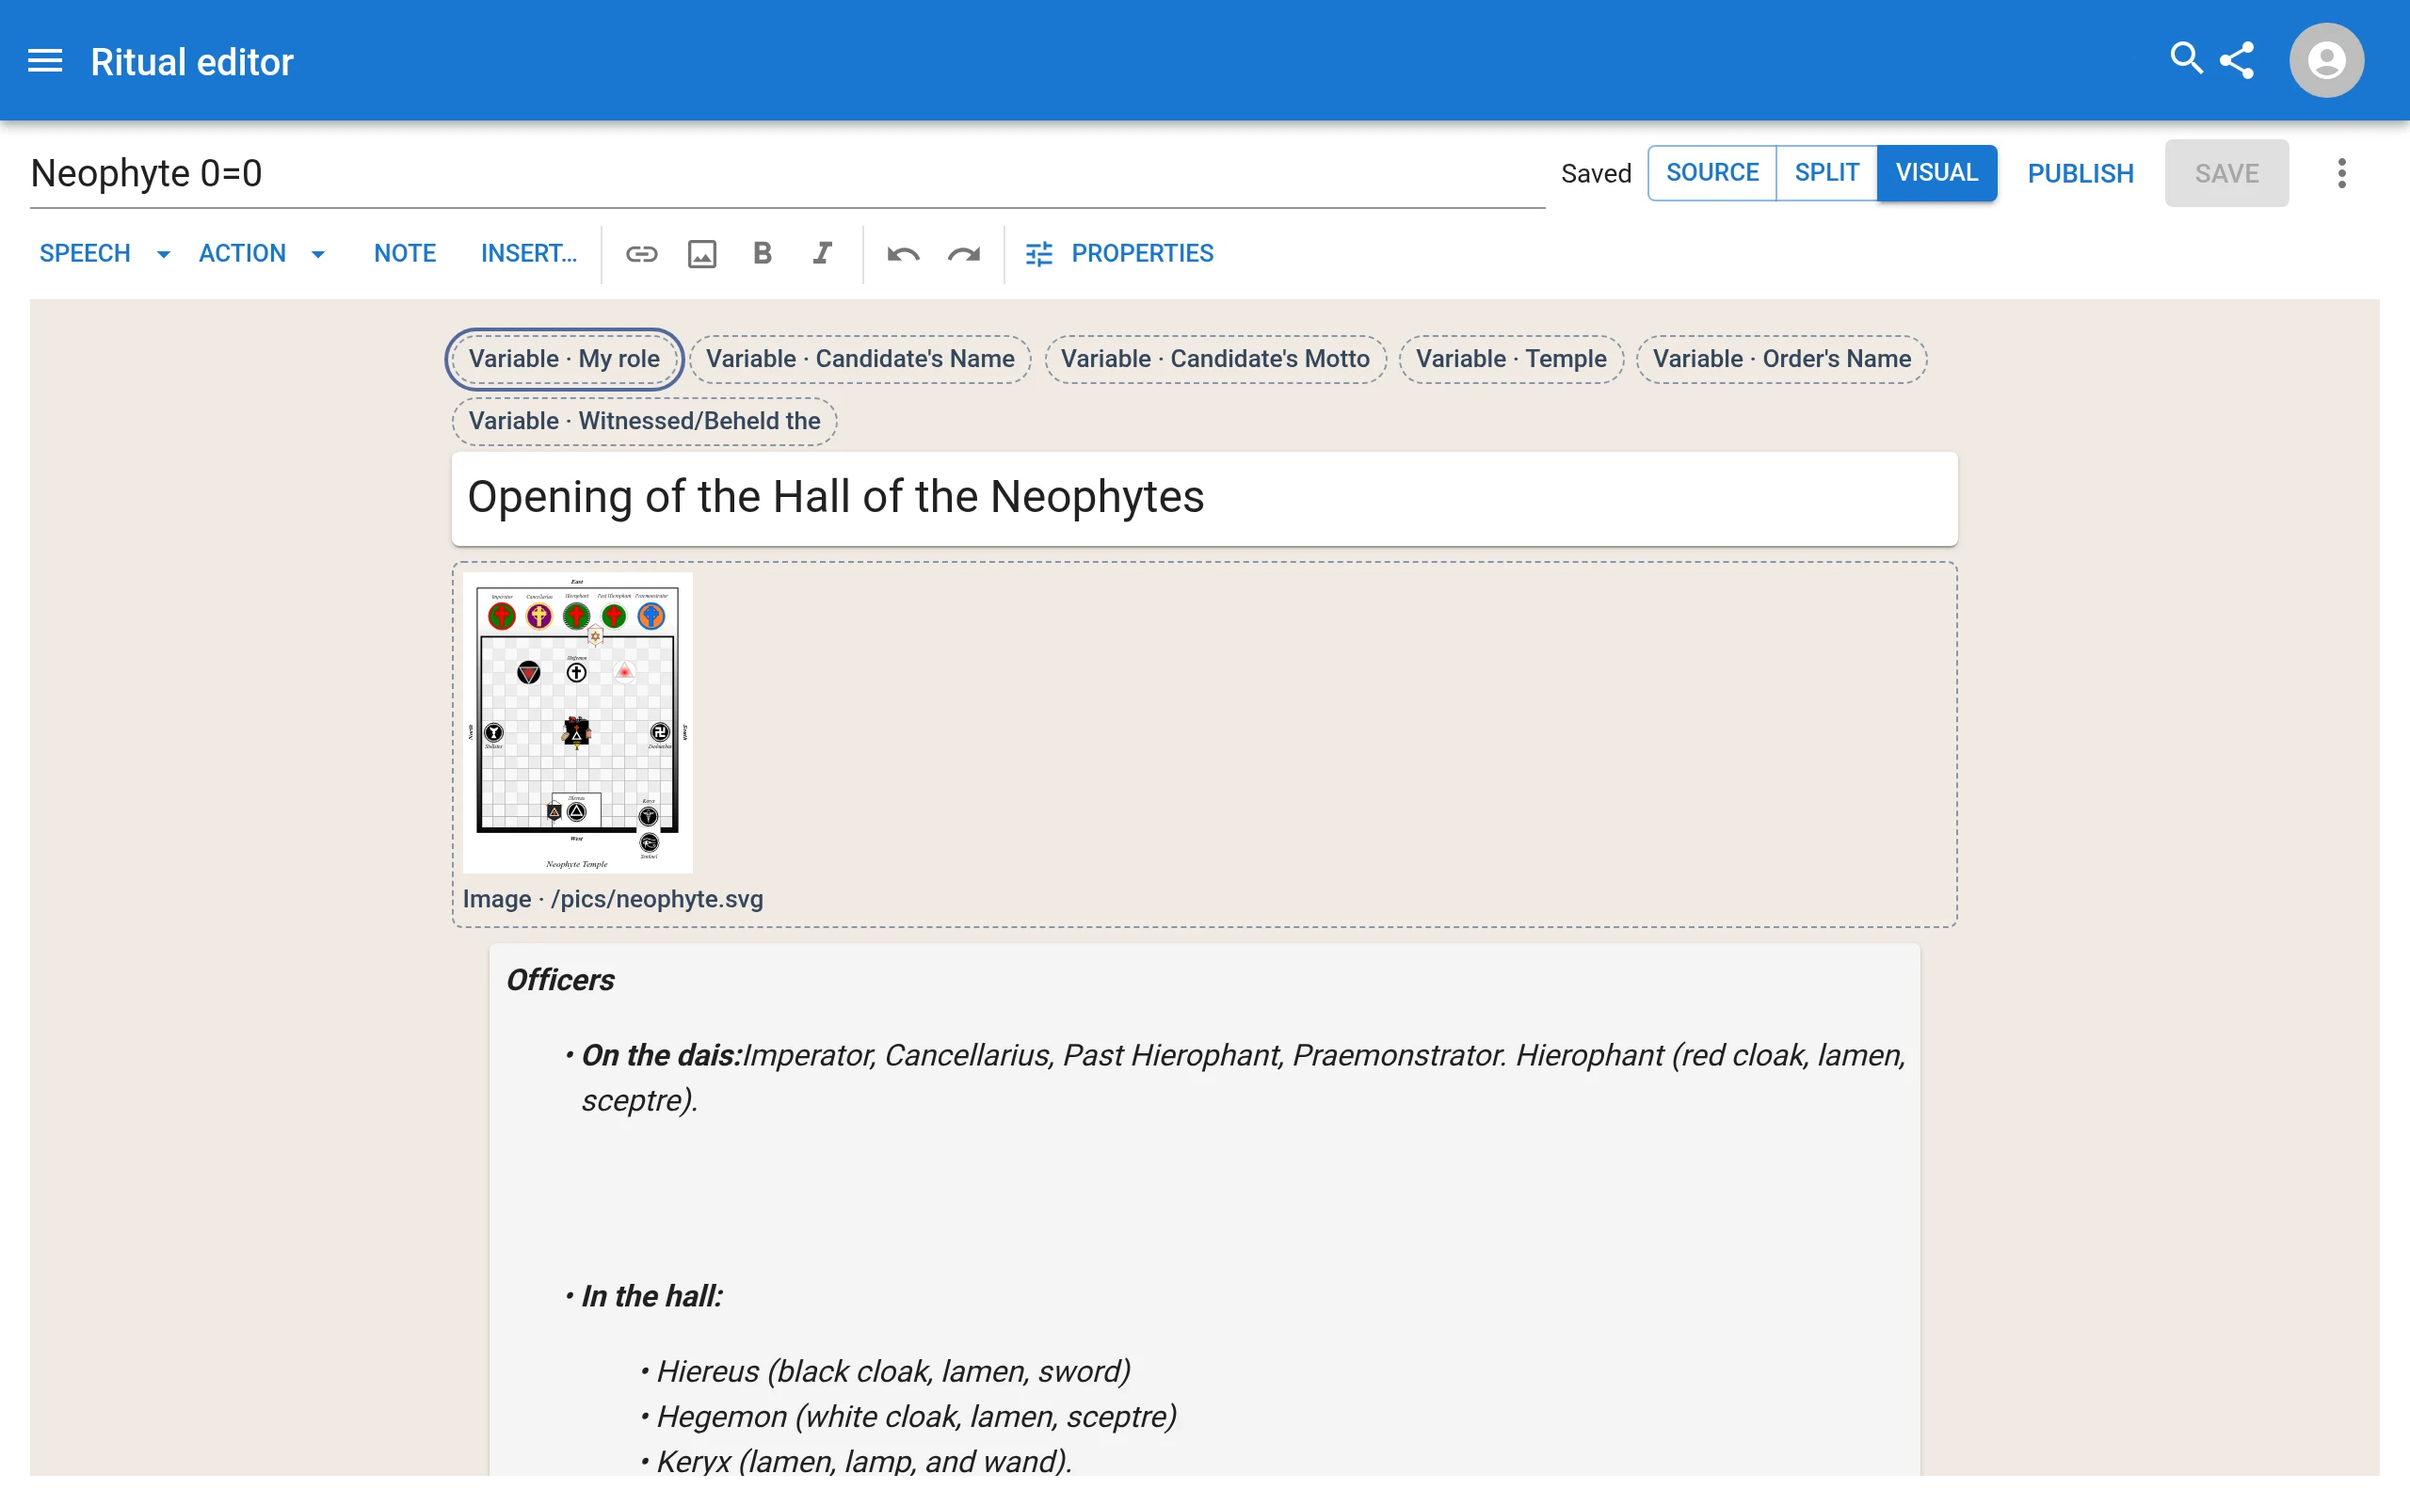
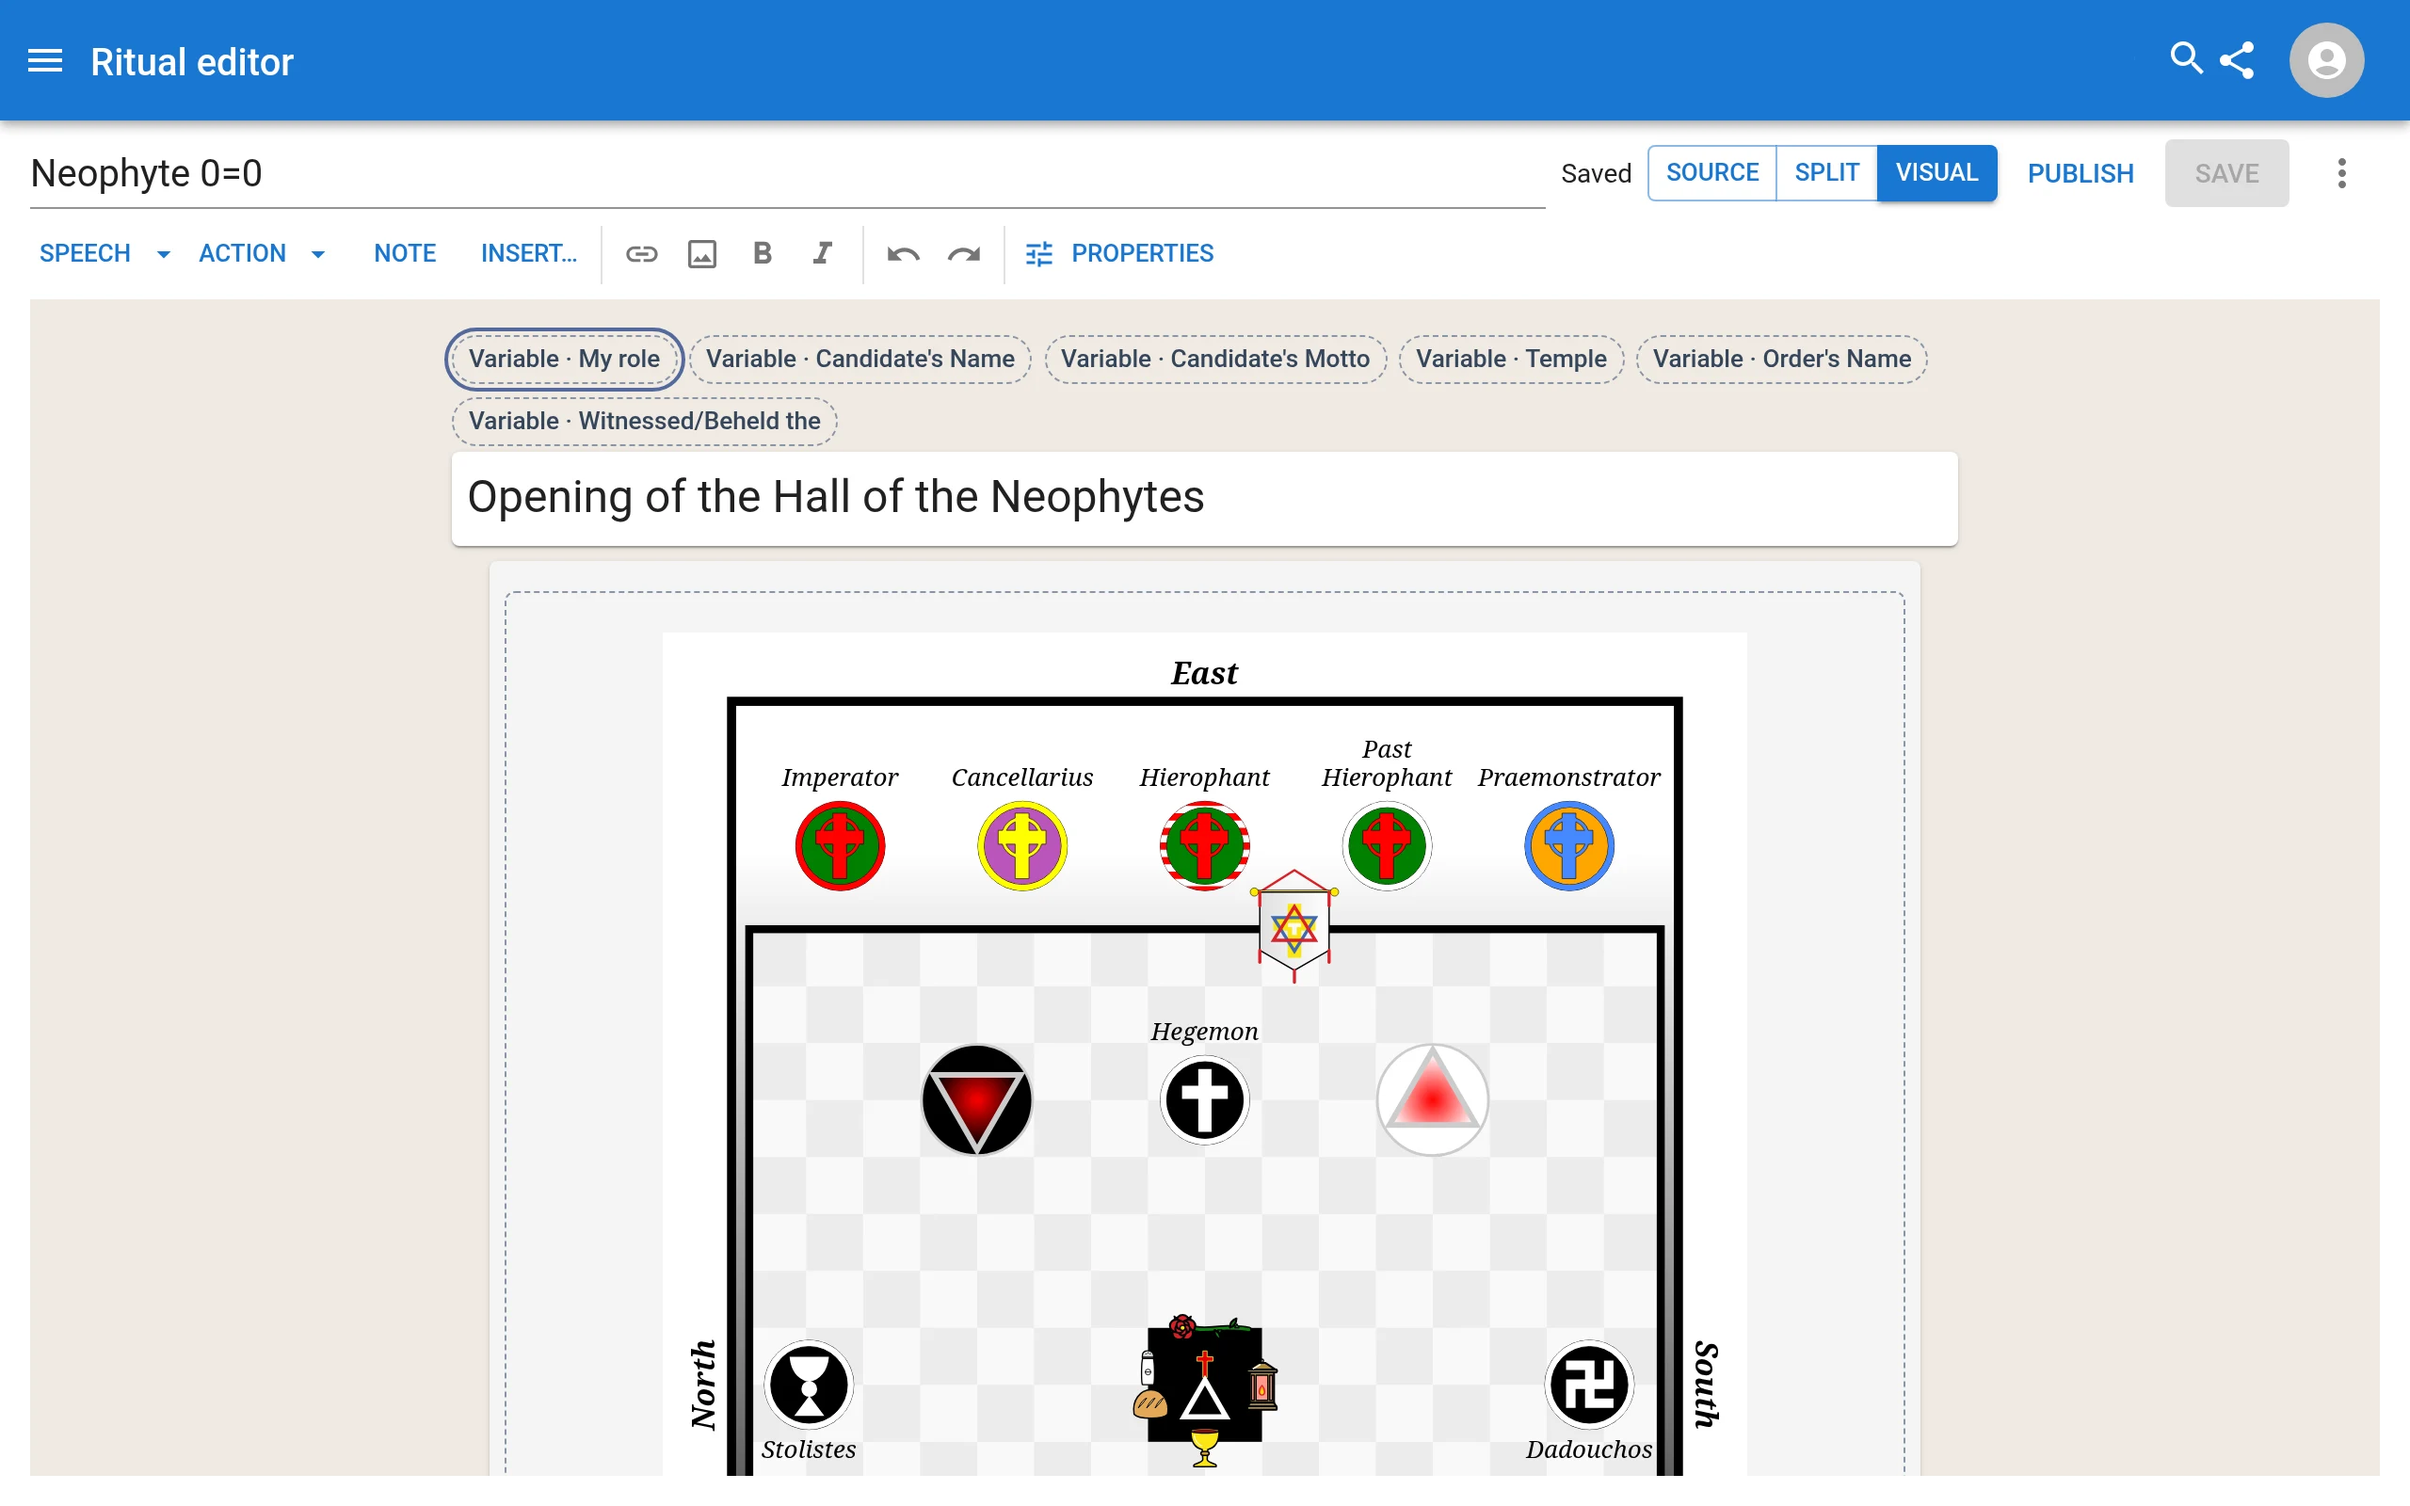
feat(doc): Draw the built-in rituals' halls
The three built-in rituals showed the site's old hand-made drawings
(public/pics) for their five halls. Each now holds its preset's hall,
copied as the preset's own Pug (plan 061, decisions 3 and 10), in a
note with a link to the hall's page under it ("Neophyte Temple:
stations, sources and downloads"); the 0=0 hall moved into a note so
its link can sit with it (Gadi, 28 October 2026). A ritual link is
what the docs already use, and the offline inventory skips an a's
href, so it never blocks a publication.

builtInHalls.test.ts holds each copy equal to its preset and each
link to its page; run it with BUILT_IN_HALLS=write to rewrite the
copies after a preset changes. The docs' parity tests hold the printed
form, and the compiler is unchanged.

The documentation screenshots' seed now saves a new revision of a
sample ritual whose source changed (compared without node IDs), so
the recaptured shots show the hall.

Co-authored with Claude Code (Opus 5.5, reasoning high)

Changed region(s): [[0.1875, 0.375, 0.7812, 1.0]]

diff --git a/src/doc/builtInHalls.test.ts b/src/doc/builtInHalls.test.ts
@@ -1,0 +1,123 @@
+import { readFileSync, writeFileSync } from "node:fs";
+import { hallPreset } from "@magick-components/gd/hall/presets";
+import { describe, expect, it } from "vitest";
+import { gdHall, gdHallShortName } from "@/render/contracts/gdHall";
+import { hallPath } from "@/seo/halls";
+import { gdHallPug } from "./gdHallPug";
+import { prepare } from "./prepare";
+
+/**
+ * The built-in rituals draw the presets (plan 061, stage I): each hall in
+ * a doc is a copy of its preset's Pug, never a reference to it, followed
+ * in its note by a link to the hall's page. When a preset changes, run
+ * this file with BUILT_IN_HALLS=write to rewrite the copies.
+ */
+const DOCS: Record<string, string[]> = {
+  "0=0": ["neophyte"],
+  "1=10": ["zelator-1", "zelator-2"],
+  "2=9": ["theoricus-1", "theoricus-2"],
+};
+
+const file = (name: string) => new URL(`./${name}.pug`, import.meta.url);
+
+/** The link under a hall: its short name and what its page holds. */
+const linkText = (slug: string) =>
+  `${gdHallShortName(gdHall(slug) as never)}: stations, sources and downloads`;
+
+/** The preset's Pug, at the hall's indent, as the doc should hold it. */
+function expected(slug: string, indent: string): string[] {
+  const preset = hallPreset((gdHall(slug) as { preset: string }).preset);
+  if (!preset) throw new Error(`No preset for ${slug}`);
+  return gdHallPug(preset.hall)
+    .trimEnd()
+    .split("\n")
+    .map((line) => indent + line);
+}
+
+/**
+ * Each hall's block in a doc: the `gdHall` line and the lines indented
+ * under it, and the slug its link names (the line after the block).
+ */
+function hallBlocks(lines: string[]) {
+  const blocks: { start: number; end: number; indent: string; slug: string }[] =
+    [];
+  lines.forEach((line, start) => {
+    const indent = /^(\s*)gdHall\b/.exec(line)?.[1];
+    if (indent === undefined) return;
+    let end = start + 1;
+    while (end < lines.length && lines[end].startsWith(`${indent} `)) end++;
+    const slug = new RegExp(
+      `^${indent}a\\(href="/gd/halls/([a-z0-9-]+)"\\)`,
+    ).exec(lines[end] ?? "")?.[1];
+    if (!slug) throw new Error(`Line ${end + 1}: no hall link after the hall`);
+    blocks.push({ start, end, indent, slug });
+  });
+  return blocks;
+}
+
+describe("the built-in rituals' halls", () => {
+  it.each(Object.entries(DOCS))(
+    "%s draws its presets, copied",
+    (name, slugs) => {
+      const source = readFileSync(file(name), "utf8");
+      const lines = source.split("\n");
+      const blocks = hallBlocks(lines);
+      expect(blocks.map((block) => block.slug)).toEqual(slugs);
+      if (process.env.BUILT_IN_HALLS === "write") {
+        for (const block of [...blocks].reverse())
+          lines.splice(
+            block.start,
+            block.end - block.start,
+            ...expected(block.slug, block.indent),
+          );
+        writeFileSync(file(name), lines.join("\n"));
+        return;
+      }
+      for (const block of blocks)
+        expect(
+          lines.slice(block.start, block.end),
+          `${name}.pug's ${block.slug} hall differs from its preset: run this test with BUILT_IN_HALLS=write`,
+        ).toEqual(expected(block.slug, block.indent));
+      // No old drawing stands in for a hall any more.
+      expect(source).not.toMatch(
+        /img\(src="\/pics\/(neophyte|zelator|theoricus)/,
+      );
+    },
+  );
+
+  it.each(Object.entries(DOCS))(
+    "%s links each hall's page from its note",
+    (name, slugs) => {
+      const tree = prepare(readFileSync(file(name), "utf8")) as {
+        children?: unknown[];
+      };
+      const found: string[] = [];
+      const walk = (node: unknown) => {
+        const row = node as { type?: string; children?: unknown[] };
+        const children = row.children ?? [];
+        children.forEach((child, i) => {
+          if ((child as { type?: string }).type !== "gdHall")
+            return walk(child);
+          // A hall stands in a note, followed by its link.
+          expect(row.type).toBe("note");
+          const link = children[i + 1] as {
+            type: string;
+            href: string;
+            children: { value: string }[];
+          };
+          const slug = slugs[found.length];
+          expect(link).toMatchObject({
+            type: "a",
+            href: hallPath(gdHall(slug) as never),
+          });
+          expect(link.children.map((text) => text.value).join("")).toBe(
+            linkText(slug),
+          );
+          found.push(slug);
+        });
+      };
+      walk(tree);
+      expect(found).toEqual(slugs);
+    },
+  );
+});

diff --git a/scripts/docs-screenshots/fixtures.ts b/scripts/docs-screenshots/fixtures.ts
@@ -1,11 +1,16 @@
+import { createHash } from "node:crypto";
 import { and, eq } from "drizzle-orm";
 import type { PgDatabase, PgQueryResultHKT } from "drizzle-orm/pg-core";
 import { LOCAL_ACCEPTANCE_USERS } from "../../src/auth/localTestIdentities";
 import { user } from "../../src/db/schema/auth";
 import { templeMemberships, temples } from "../../src/db/schema/memberships";
 import { ritualWriteReceipts } from "../../src/db/schema/ritualCommands";
+import {
+  ritualRevisions,
+  rituals as ritualRows,
+} from "../../src/db/schema/rituals";
 import { prepare } from "../../src/doc/prepare";
-import { semanticFromJrt } from "../../src/doc/semantic";
+import { semanticFromJrt, semanticToJrt } from "../../src/doc/semantic";
 import {
   createSqlRitualWriter,
   type SqlRitualWriteDatabase,
@@ -217,6 +222,12 @@ export async function seedDocsScreenshotFixtures(
       .where(eq(ritualWriteReceipts.operationId, ritual.operationId));
     if (receipt) {
       rituals[ritual.title] = receipt.ritualId;
+      await saveIfChanged(
+        db,
+        asCreator,
+        receipt.ritualId,
+        ritual.pug ?? neophytePug,
+      );
       continue;
     }
     const written = await createSqlRitualWriter(
@@ -237,4 +248,59 @@ export async function seedDocsScreenshotFixtures(
     rituals[ritual.title] = written.ritualId;
   }
   return { templeId, rituals };
+}
+
+/**
+ * Saves the ritual's source again when its Pug has changed since it was
+ * seeded (the bundled 0=0 drawing its hall from a preset, for one), so that
+ * the screenshots show the current source; the capture publishes it. The
+ * stored source is compared without node IDs, which conversion assigns
+ * afresh. The operation ID comes from the Pug's hash, so a rerun replays.
+ */
+async function saveIfChanged(
+  db: SeedDatabase,
+  asCreator: () => Promise<string | null>,
+  ritualId: string,
+  pug: string,
+) {
+  const [current] = await db
+    .select({
+      revisionId: ritualRows.currentRevisionId,
+      version: ritualRows.version,
+      source: ritualRevisions.source,
+    })
+    .from(ritualRows)
+    .innerJoin(
+      ritualRevisions,
+      eq(ritualRevisions.id, ritualRows.currentRevisionId),
+    )
+    .where(eq(ritualRows.id, ritualId));
+  const jrt = prepare(pug);
+  if (
+    !current?.revisionId ||
+    JSON.stringify(semanticToJrt(JSON.parse(current.source))) ===
+      JSON.stringify(jrt)
+  )
+    return;
+  const hash = createHash("sha256").update(pug).digest("hex");
+  const operationId = `019a0001-${hash.slice(0, 4)}-7${hash.slice(4, 7)}-8${hash.slice(7, 10)}-${hash.slice(10, 22)}`;
+  const [done] = await db
+    .select()
+    .from(ritualWriteReceipts)
+    .where(eq(ritualWriteReceipts.operationId, operationId));
+  if (done) return;
+  const saved = await createSqlRitualWriter(
+    db,
+    asCreator,
+  )({
+    version: 3,
+    operationId,
+    expectedActorId: creator.id,
+    kind: "save",
+    ritualId,
+    expectedRevisionId: current.revisionId,
+    expectedVersion: current.version,
+    source: JSON.stringify(semanticFromJrt(jrt)),
+  });
+  if (!saved.ok) throw new Error(`DOCS_SCREENSHOTS_SAVE_${saved.code}`);
 }

diff --git a/src/app/help/temples/page.tsx b/src/app/help/temples/page.tsx
@@ -288,7 +288,7 @@ export default function TemplesGuide() {
       </ul>
       <Figure
         image={readerPhone}
-        alt="A temple ritual open on a phone: a title, then speech and action lines laid out in a single readable column."
+        alt="A temple ritual open on a phone: its opening title, then the Neophyte hall's floor plan in a single readable column."
         maxWidth={300}
       >
         A temple ritual on a phone, laid out to read at a glance rather than as
@@ -327,7 +327,7 @@ export default function TemplesGuide() {
       </Figure>
       <Figure
         image={editorVisual}
-        alt="The ritual editor in visual view, showing the ritual title, variables and an officers' note."
+        alt="The ritual editor in visual view, showing the ritual title, variables and the Neophyte hall's floor plan."
         maxWidth={900}
       >
         Visual view, for writing as the ritual will read.
